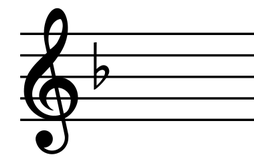
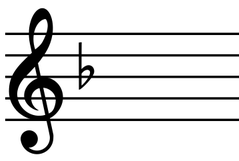
spacing of lesson.html page and tweaks of a few images.

Changed region(s): [[0.0, 0.0311, 0.4393, 0.9627], [0.0, 0.1863, 0.0879, 0.2174]]

diff --git a/lesson.html b/lesson.html
@@ -41,81 +41,111 @@
             </div>
         </nav>
     </header>
-    <section id="explanation" class="row">
-        <div class="col-8">
-            <h1>What is a key signature?</h1>
-            <p>The key signature of a piece is found right at the beginning next to the clef. This collection of sharps
-                and flats (or lack of) determines in what key the piece was composed. It will let you know what notes
-                you need to make sharp or flat.</p>
-            <p>There are twelve major keys and twelve minor keys. Each major key has a relative minor key, as each minor
-                key has a relative major key.</p>
-        </div>
-    </section>
-    <section id="intro" class="row">
-        <div class="col-8">
-            <h2>How can I find a key's relative minor/major?</h2>
-            <p>If you are starting with a major key, just go down a minor third. This will give you the name of its
-                relative minor.</p>
-            <p>If you've got a minor key, you will need to go up a minor third to get the name of its relative major!
-            </p>
-            <p>Example: I'm not sure what C major's relative minor key is!
-                <br>I will go down a minor third (C - Bb - A). A minor is therefore the relative minor!
-            </p>
-        </div>
-        </div>
-        <section id="memorise" class="row">
-            <div class="col-8">
-                <h2>Here are a few to memorise. Don't worry, only a few.</h2>
+    <article id="content" class="container-fluid">
+        <section id="explanation" class="row justify-content-center py-5">
+            <div class="col-10 text-start">
+                <h1 class="pb-3">What is a key signature?</h1>
+                <p>The key signature of a piece of music is found right at the beginning next to the clef. This collection of
+                    sharps
+                    and flats (or lack thereof) determines in what key the piece was composed and needs to be played. It will let you know what
+                    notes
+                    you need to make sharp or flat.</p>
+                <p>There are twelve major keys and twelve minor keys. Each major key has a relative minor key, as each
+                    minor
+                    key has a relative major key.</p>
+            </div>
+        </section>
+        <section id="intro" class="row justify-content-center pb-5">
+            <div class="col-10 text-start">
+                <h2 class="pb-3">How can I find a key's relative minor/major?</h2>
+                <p>If you are starting with a major key, just go down a minor third. This will give you the name of its
+                    relative minor.</p>
+                <p>If you've got a minor key, you will need to go up a minor third to get the name of its relative
+                    major!
+                </p>
+                <p>Example: I'm not sure what C major's relative minor key is!
+                    <br>I will go down a minor third (C - Bb - A). A minor is therefore the relative minor!
+                </p>
+            </div>
+        </section>
+        <section id="memorise" class="row justify-content-center pb-5">
+            <div class="col-10 text-start">
+                <h2 class="pb-3">Here are a few to memorise. Don't worry, only a few.</h2>
                 <p>Before we get into the nitty gritty, there are four key signatures that you will need to memorise.
                 </p>
-                <ul>
-                    <li>C major and its relative minor : A minor</li>
-                    <p>This one has no sharps or flats!</p>
-                    <li>F major and its relative minor: D minor</li>
-                    <p>You'll see why we need to memorise this in a bit!</p>
+                <ul class="row">
+                    <li class="col-6">
+                        <div class="row">
+                        <img class="col-6" src="static/images/c-major.png">
+                        <p class="col-6 pt-5">C major and its relative minor : A minor<br><br>
+                            This one has no sharps or flats!</p>
+                        </div>
+                    </li>
+                    <li class="col-6">
+                        <div class="row">
+                        <img class="col-6" src="static/images/f-major.png">
+                        <p class="col-6 pt-5">F major and its relative minor: D minor<br><br>
+                            You'll see why we need to memorise this in a bit!</p>
+                        </div>
+                    </li>
                 </ul>
             </div>
         </section>
-        <div id="major-sharp">
-            <h2>Here's how you figure out your major sharp keys...</h2>
-            <p>When you first look at a piece of music, take note of whether it has sharps or flats in the key
-                signature. Let's pretend you have a few sharps and you know that it is a major key. Now, look at the
-                last sharp in the collection (the one
-                furthest to the right). To determine the key, simply take this sharp, go up a semi-tone (half-step),
-                and this will tell you the name of the key!</p>
-        </div>
-        <div id="major-flat">
-            <h2>...and your major flat keys.</h2>
-            <p>Now, how about if you know it is major but it has flats? Find the second to last flat from the group.
-                Take the name of the line or space that it's on and add "flat" to its name and voilà.</p>
-            <p>Consider F major however, our friend with one flat. It only has one flat --b flat-- so we can't find the
-                second to last flat. This is why we need to just remember it!</p>
-        </div>
-        <div id="minor">
-            <h2>Is there a quick way to figure out minor key signatures?</h2>
-            <p>The easiest way is to simply go down a minor third from your major key. There is no shortcut that works
-                to tell us the minor key sadly. On a positive note, this method will help get you quick at thinking
-                about intervals, which is always useful as a musician.</p>
-        </div>
-        <div id="identification">
-            <h2>How do we tell whether a piece is major or minor in the first place?</h2>
-            <p>As we know, the easiest way to tell the key signature is to start with the major key signature and then
-                go down a minor third to figure out its relative minor, so you can start by thinking about the major
-                regardless. Once you know which keys options you have, ask yourself these questions:</p>
-            <ul>
-                <li>Have I heard the piece before? Is it happy or sad sounding? Happy is most likely major and sad is
-                    probably minor.</li>
-                <li>What is the last note? Is it the name of the major or minor key? Is it the 3rd or 5th scale degrees
-                    of either the major or minor key?</li>
-            </ul>
-            <p>Remember, the third scale degree of a scale determines whether the it is major or minor.</p>
-        </div>
-        <div id="conclusion">
-            <h2>That should be all you need to know.</h2>
-            <p>Test your skills with the game by clicking the button below. Good luck!</p>
-            <a class="btn btn-primary" href="game.html" role="button">Game</a>
-        </div>
-    </section>
+        <section id="major-sharp" class="row justify-content-center pb-5">
+            <div class="col-10 text-start">
+                <h2 class="pb-3">Here's how you figure out your major sharp keys...</h2>
+                <p>When you first look at a piece of music, take note of whether it has sharps or flats in the key
+                    signature. Let's pretend you have a few sharps and you know that it is a major key. Now, look at the
+                    last sharp in the collection (the one
+                    furthest to the right). To determine the key, simply take this sharp, go up a semi-tone (half-step),
+                    and this will tell you the name of the key!</p>
+            </div>
+        </section>
+        <section id="major-flat" class="row justify-content-center pb-5">
+            <div class="col-10 text-start">
+                <h2 class="pb-3">...and your major flat keys.</h2>
+                <p>Now, how about if you know it is major but it has flats? Find the second to last flat from the group.
+                    Take the name of the line or space that it's on and add "flat" to its name and voilà.</p>
+                <p>Consider F major however, our friend with one flat. It only has one flat --b flat-- so we can't find
+                    the
+                    second to last flat. This is why we need to just remember it!</p>
+            </div>
+        </section>
+        <section id="minor" class="row justify-content-center pb-5">
+            <div class="col-10 text-start">
+                <h2 class="pb-3">Is there a quick way to figure out minor key signatures?</h2>
+                <p>The easiest way is to simply go down a minor third from your major key. There is no shortcut that
+                    works
+                    to tell us the minor key sadly. On a positive note, this method will help get you quick at thinking
+                    about intervals, which is always useful as a musician.</p>
+            </div>
+        </section>
+        <section id="identification" class="row justify-content-center pb-5">
+            <div class="col-10 text-start">
+                <h2 class="pb-3">How do we tell whether a piece is major or minor in the first place?</h2>
+                <p>As we know, the easiest way to tell the key signature is to start with the major key signature and
+                    then
+                    go down a minor third to figure out its relative minor, so you can start by thinking about the major
+                    regardless. Once you know which keys options you have, ask yourself these questions:</p>
+                <ul>
+                    <li>Have I heard the piece before? Is it happy or sad sounding? Happy is most likely major and sad
+                        is
+                        probably minor.</li>
+                    <li>What is the last note? Is it the name of the major or minor key? Is it the 3rd or 5th scale
+                        degrees
+                        of either the major or minor key?</li>
+                </ul>
+                <p>Remember, the third scale degree of a scale determines whether the it is major or minor.</p>
+            </div>
+        </section>
+        <section id="conclusion" class="row justify-content-center pb-3">
+            <div class="col-10 text-start">
+                <h2 class="pb-3">That should be all you need to know.</h2>
+                <p class="pb-5">Test your skills with the game by clicking the button below. Good luck!</p>
+            </div>
+        </section>
+        <a class="btn btn-primary mb-5" href="game.html" role="button">Game</a>
+    </article>
     <script src="https://cdn.jsdelivr.net/npm/bootstrap@5.1.3/dist/js/bootstrap.bundle.min.js"
         integrity="sha384-ka7Sk0Gln4gmtz2MlQnikT1wXgYsOg+OMhuP+IlRH9sENBO0LRn5q+8nbTov4+1p" crossorigin="anonymous">
     </script>

diff --git a/index.html b/index.html
@@ -40,7 +40,7 @@
     </header>
     <section id="back-buttons" class="row justify-content-center align-items-center">
       <div class="col-8">
-      <p class="mb-4">Can't remember which key is which?<br>No bother, I can help!<br>Click on the lesson button to review how to figure out your keys, then click on the game link to put your skills to the test!</p>
+      <p class="mb-4">Can't remember which key is which?<br>No bother, I can help!<br>Click on the lesson button to review how to figure out your keys, then click on the game button to put your skills to the test!</p>
       <a class="btn btn-primary mx-4" href="lesson.html" role="button">Lesson</a>
       <a class="btn btn-primary mx-4" href="game.html" role="button">Game</a>
     </div>

diff --git a/static/css/style.css b/static/css/style.css
@@ -45,6 +45,7 @@ button {
   border-color: #56CBF9;
   font-size: 1.5rem;
   height: 3.5rem;
+  border-radius: 15px;
 }
 
 .btn-primary:hover {
@@ -120,7 +121,7 @@ button {
 
 /* index.html styles */
 #back-buttons {
-  margin-top: 20%;
+  margin-top: 15%;
 }
 
 #back-buttons p {
@@ -135,6 +136,15 @@ button {
 #conclusion a {
   border-radius: 15px;
 }
+
+li {
+  list-style-type: none;
+}
+
+h1, h2 {
+  font-weight: 600;
+}
+
 
 
 

diff --git a/static/js/game1.js b/static/js/game1.js
@@ -206,6 +206,8 @@ function checkAnswer() {
   let message = document.getElementById("message");
   let nextButton = document.getElementById("next");
 
+  message.classList.remove("hidden");
+  
   if (selectionValue === answer) {
     numCorrect++;
     selection.classList.add("correct");
